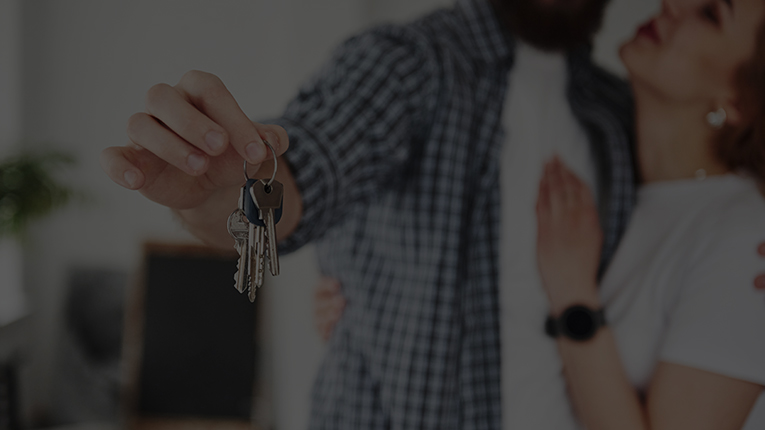
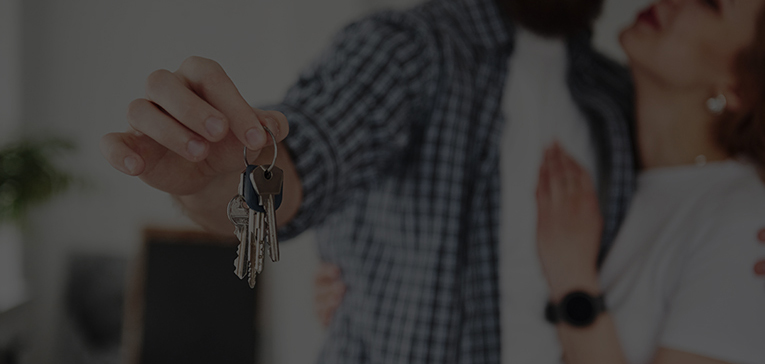
Arrumando algumas coisas
Arrumando algumas coisas antes de finalizar

diff --git a/index.html b/index.html
@@ -59,46 +59,13 @@
 
 
   <!--Slide-->
-  <div id="carouselExampleCaptions" class="carousel slide" data-ride="carousel">
-    <ol class="carousel-indicators">
-      <li data-target="#carouselExampleCaptions" data-slide-to="0" class="active"></li>
-      <li data-target="#carouselExampleCaptions" data-slide-to="1"></li>
-      <li data-target="#carouselExampleCaptions" data-slide-to="2"></li>
-    </ol>
+  <div  class="carousel slide" data-ride="carousel">
     <div class="carousel-inner ">
       <div class="carousel-item active">
         <img src="assets/img/portfolio/slide1.jpg" class="d-block w-100" alt="Imagem slide">
         <div class="carousel-caption textSlider">
           <h5> <img src="assets/img/portfolio/LogoBranca.png" alt="Logo LA" class="animation"> </h5>
-          <p>O primeiro passo para você construir a sua casa.</p>
-          <div class="text-center mt-4">
-            <a class="botttunDescubra btn btn-dark animation" href="#">
-              <i class="botttunDescubra"></i>
-              Descubra
-            </a>
-          </div>
-
-        </div>
-      </div>
-      <div class="carousel-item">
-        <img src="assets/img/portfolio/slide2.jpg" class="d-block w-100" alt="Imagem slide">
-        <div class="carousel-caption textSlider">
-          <h5> <strong> Second slide label </strong> </h5>
-          <p>Construir a casa dos seus sonhos pode custar bem menos do que você imagina</p>
-          <div class="text-center mt-4">
-            <a class="botttunDescubra btn btn-dark animation" href="#">
-              <i class="botttunDescubra"></i>
-              Descubra
-            </a>
-          </div>
-
-        </div>
-      </div>
-      <div class="carousel-item">
-        <img src="assets/img/portfolio/slide3.jpg" class="d-block w-100" alt="Imagem slide">
-        <div class="carousel-caption textSlider">
-          <h5> <strong>Third slide label </strong> </h5>
-          <p>Praesent commodo cursus magna, vel scelerisque nisl consectetur.</p>
+          <p>O primeiro passo para você construir a sua casa!</p>
           <div class="text-center mt-4">
             <a class="botttunDescubra btn btn-dark animation" href="#">
               <i class="botttunDescubra"></i>
@@ -108,14 +75,6 @@
         </div>
       </div>
     </div>
-    <a class="carousel-control-prev" href="#carouselExampleCaptions" role="button" data-slide="prev">
-      <span class="carousel-control-prev-icon" aria-hidden="true"></span>
-      <span class="sr-only">Previous</span>
-    </a>
-    <a class="carousel-control-next" href="#carouselExampleCaptions" role="button" data-slide="next">
-      <span class="carousel-control-next-icon" aria-hidden="true"></span>
-      <span class="sr-only">Next</span>
-    </a>
   </div>
   <!--Slide-->
 
@@ -135,8 +94,8 @@
       <!-- About Section Button-->
       <div class="text-center animation mt-4">
         <a class="btn btn-xl btn-dark" href="contato.html">
-          <i class="sabiaMais"></i>
-          SABIA COMO
+          <i class="saibaMais"></i>
+          SAIBA MAIS
         </a>
       </div>
     </div>
@@ -181,8 +140,8 @@
       <div class="text-center animation mt-4">
         <a class="btn btn-xl btn-dark" target="_blank"
           href="https://diariodonordeste.verdesmares.com.br/negocios/numero-de-imoveis-financiados-mais-que-triplica-no-ceara-e-mercado-vive-boom-1.3079580">
-          <i class="sabiaMais"></i>
-          SABIA MAIS
+          <i class="saibaMais"></i>
+          SAIBA MAIS
         </a>
       </div>
     </div>
@@ -252,7 +211,7 @@
       <div class="row">
         <div class="textQuemSomos mb-0">
           <p>Somos uma construtech que tem como <strong>MISSÃO </strong>realizar o seu sonho!
-            Através do Financiamento Habitacional disponibilizado pela Caixa Econômica. VAMOS te <strong>AJUDAR
+            Através do Financiamento Habitacional disponibilizado pela Caixa Econômica. Vamos te <strong>AJUDAR
             </strong>
             a construir sua casa juntos, desde a aprovação de crédito à entrega das chaves.
           </p>
@@ -281,8 +240,8 @@
             <h6 class="card-title tituloEquipe">Odilon Lucena</h6>
             <p class="card-text descricaoEquipe">Engenheiro Civil</p>
             <p class="card-text descricaoEquipe">Especialista BIM</p>
-            <a class="btn btn-outline-dark btn-social mx-1 animation"
-              href="https://www.instagram.com/odilon.lucena/" target="_blank" ><i class="fab fa-instagram"></i></a>
+            <a class="btn btn-outline-dark btn-social mx-1 animation" href="https://www.instagram.com/odilon.lucena/"
+              target="_blank"><i class="fab fa-instagram"></i></a>
 
           </div>
         </div>
@@ -292,8 +251,8 @@
             <h6 class="card-title tituloEquipe">Anna Rosina Araújo</h6>
             <p class="card-text descricaoEquipe">Designer de Interiores</p>
             <p>&nbsp</p>
-            <a class="btn btn-outline-dark btn-social mx-1 animation"
-              href="https://instagram.com/annarosinaaraujo/" target="_blank" ><i class="fab fa-instagram"></i></a>
+            <a class="btn btn-outline-dark btn-social mx-1 animation" href="https://instagram.com/annarosinaaraujo/"
+              target="_blank"><i class="fab fa-instagram"></i></a>
           </div>
         </div>
       </div>
@@ -338,10 +297,10 @@
         <div class="col-lg-4 mb-5 mb-lg-0" id="redeSociais">
           <h4 class="text-uppercase mb-4">Redes Sociais</h4>
           <a class="btn btn-outline-light btn-social mx-1 animation"
-            href="https://www.facebook.com/laprojetosengenhariaedesign" target="_blank"><i class="fab fa-fw fa-facebook-f"></i></a>
-          <a class="btn btn-outline-light btn-social mx-1 animation" href="#!" target="_blank"><i class="fab fa-whatsapp"></i></a>
-          <a class="btn btn-outline-light btn-social mx-1 animation"
-            href="https://www.instagram.com/laengenhariaedesign3/" target="_blank"><i class="fab fa-instagram"></i></a>
+            href="https://m.facebook.com/laconstrutechh/?ref=content_filter"><i class="fab fa-fw fa-facebook-f"></i></a>
+          <a class="btn btn-outline-light btn-social mx-1 animation" href="#!"><i class="fab fa-whatsapp"></i></a>
+          <a class="btn btn-outline-light btn-social mx-1 animation" href="https://www.instagram.com/laconstrutech_/"><i
+              class="fab fa-instagram"></i></a>
         </div>
         <!-- Footer About Text-->
       </div>

diff --git a/css/styles.css b/css/styles.css
@@ -190,7 +190,7 @@ body {
 @media (min-width: 411px) { 
     /*Muda a posição do slide em relação ao menu*/
     .slide{
-      margin-top: 8rem;
+      margin-top: 7rem;
     }
     
     /*Muda o texto do slide posição*/
@@ -201,13 +201,13 @@ body {
     }
     .textSlider p{
       margin-bottom: -0.5rem;
-      font-size: 1rem;
+      font-size: 0.8rem;
       color: var(--light);
       text-align: center;
     }
     .textSlider img {
-      height: 90px;
-      width: 90px;
+      height: 125px;
+      width: 125px;
     }
     .botttunDescubra{
       background-color: var(--amareloLA);
@@ -217,7 +217,7 @@ body {
 @media (min-width: 576px) { 
     /*Muda a posição do slide em relação ao menu*/
     .slide{
-      margin-top: 8rem;
+      margin-top: 7rem;
     }
     
     /*Muda o texto do slide posição*/
@@ -236,7 +236,7 @@ body {
       width: 150px;
     }
     .botttunDescubra{
-      margin-bottom: 4rem;
+      margin-bottom: 2%;
       width: 200px;
       height: 40px;
       background-color: var(--amareloLA);
@@ -251,7 +251,7 @@ body {
 @media (min-width: 768px) { 
     /*Muda a posição do slide em relação ao menu*/
   .slide{
-    margin-top: 8rem;
+    margin-top: 7rem;
   }
 
   /*Muda o texto do slide posição*/
@@ -297,11 +297,11 @@ body {
     text-align: center;
   }
   .textSlider img {
-    height: 250px;
-    width: 250px;
+    height: 270px;
+    width: 270px;
   }
   .botttunDescubra{
-    margin-bottom: 6rem;
+    margin-bottom: 10%;
     width: 200px;
     height: 40px;
   }
@@ -318,22 +318,23 @@ body {
 
   /*Muda o texto do slide posição*/
   .textSlider h5{
-    font-size: 4rem;
+    font-size: 1rem;
     color: var(--light);
     text-align: center;
   }
   .textSlider p{
     margin-bottom: 1rem;
-    font-size: 3rem;
+    font-size: 2.5rem;
     color: var(--light);
     text-align: center;
   }
   .textSlider img {
+    
     height: 400px;
     width: 400px;
   }
   .botttunDescubra{
-    margin-bottom: 20rem;
+    margin-bottom: 12%;
     width: 200px;
     height: 40px;
   }

diff --git a/contato.html b/contato.html
@@ -267,10 +267,10 @@
         <div class="col-lg-4 mb-5 mb-lg-0" id="redeSociais">
           <h4 class="text-uppercase mb-4">Redes Sociais</h4>
           <a class="btn btn-outline-light btn-social mx-1 animation"
-            href="https://www.facebook.com/laprojetosengenhariaedesign"><i class="fab fa-fw fa-facebook-f"></i></a>
+            href="https://m.facebook.com/laconstrutechh/?ref=content_filter"><i class="fab fa-fw fa-facebook-f"></i></a>
           <a class="btn btn-outline-light btn-social mx-1 animation" href="#!"><i class="fab fa-whatsapp"></i></a>
           <a class="btn btn-outline-light btn-social mx-1 animation"
-            href="https://www.instagram.com/laengenhariaedesign3/"><i class="fab fa-instagram"></i></a>
+            href="https://www.instagram.com/laconstrutech_/"><i class="fab fa-instagram"></i></a>
         </div>
         <!-- Footer About Text-->
       </div>
